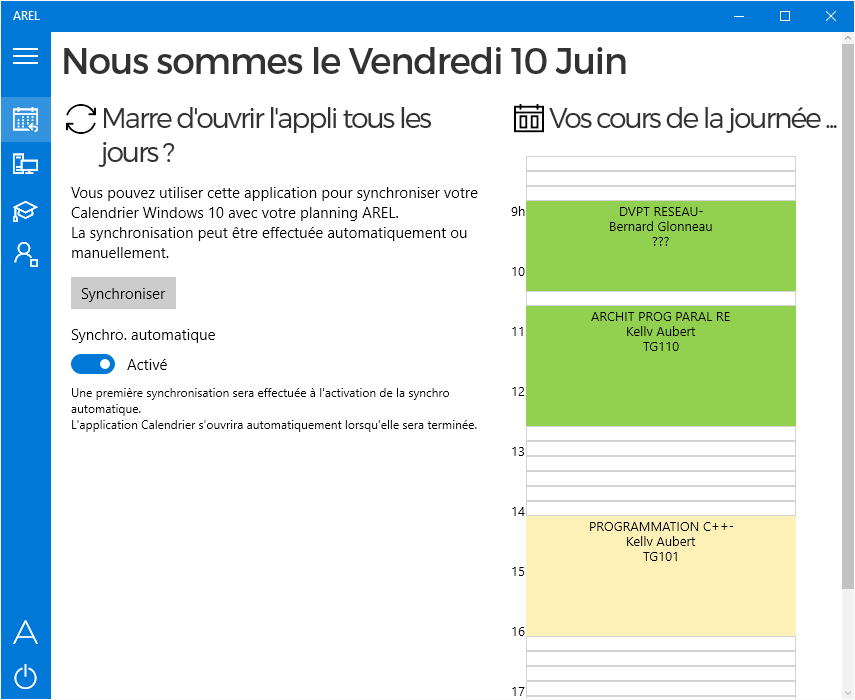
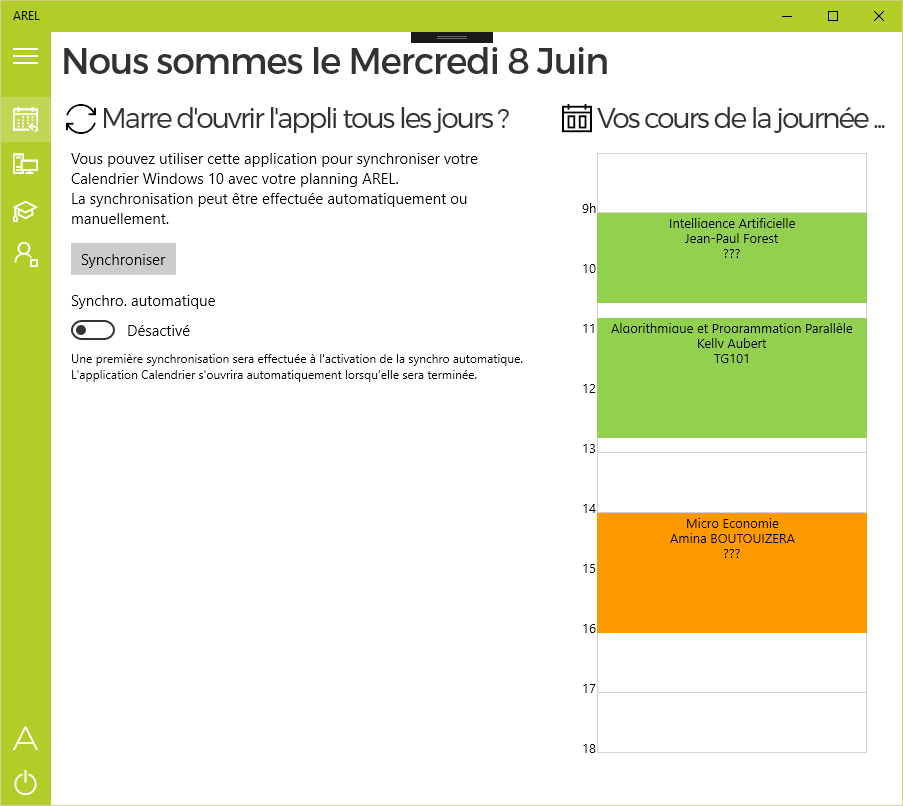
On récupère les noms complets des matières maintenant + amélioration design planning journalier

diff --git a/arelv1/Pages/Planning.xaml b/arelv1/Pages/Planning.xaml
@@ -100,7 +100,7 @@
 
             <Grid x:Name="grid"  Margin="0,0,10,10" BorderThickness="2,0" HorizontalAlignment="Center">
                 <Grid.ColumnDefinitions>
-                    <ColumnDefinition Width="15"/>
+                    <ColumnDefinition Width="30"/>
                     <ColumnDefinition x:Name="c1"/>
                 </Grid.ColumnDefinitions>
                 <Grid.RowDefinitions>

diff --git a/arelv1/Pages/Planning.xaml.cs b/arelv1/Pages/Planning.xaml.cs
@@ -258,14 +258,18 @@ namespace arelv1.Pages
                         salle = node02.InnerText;
                 }
 
+                string idRel = node.ChildNodes[2].InnerText;
                 string idProf = node.ChildNodes[3].InnerText;
                 string profName = node.ChildNodes[4].InnerText;
 
-                //Récup nom complet prof...si on a accès à l'API parce que je les sauvegarde pas dans les données de l'appli
+                //Récup nom complet prof et rel...si on a accès à l'API parce que je les sauvegarde pas dans les données de l'appli
                 if (API.isOnline())
-                { 
-                string xmlj = API.getInfo("/api/users/" + idProf);
-                profName = API.getUserFullName(xmlj);
+                {
+                    string xmlr = API.getInfo("/api/rels/" + idRel);
+                    matiere = API.getRelName(xmlr);
+
+                    string xmlj = API.getInfo("/api/users/" + idProf);
+                    profName = API.getUserFullName(xmlj);
                 }
 
                 if (prof != "" && matiere != "" && debut != "" && fin != "" && couleur != "" && salle != "")
@@ -280,7 +284,7 @@ namespace arelv1.Pages
         private void DrawPlanning()
         {
 
-            for (int j = 1; j < 41; j = j + 1)
+            for (int j = 1; j < 41; j++)
             {
                 TextBlock heure = new TextBlock();
                 heure.FontSize = 13;
@@ -292,17 +296,23 @@ namespace arelv1.Pages
                 Grid.SetColumn(heure, 0);
                 Grid.SetRow(heure, j);
 
-                for (int i = 1; i < 6; i++)
-                {
-                    StackPanel macase = new StackPanel();
+                //Remplissage de la colonne
+                StackPanel macase = new StackPanel();
 
-                    macase.BorderThickness = new Thickness(1, 1, 1, 1);
-                    macase.BorderBrush = new SolidColorBrush(Colors.LightGray);
+                if (j == (4 * jj))
+                    macase.BorderThickness = new Thickness(1,0,1,1);
+                else
+                    macase.BorderThickness = new Thickness(1, 0, 1, 0);
 
-                    grid.Children.Add(macase);
-                    Grid.SetColumn(macase, i);
-                    Grid.SetRow(macase, j);
-                }
+                if (j == 1)
+                    macase.BorderThickness = new Thickness(1, 1, 1, 0);
+
+                macase.BorderBrush = new SolidColorBrush(Colors.LightGray);
+
+                grid.Children.Add(macase);
+                Grid.SetColumn(macase, 1);
+                Grid.SetRow(macase, j);
+                
             }
 
         }

diff --git a/ArelAPI/Connector.cs b/ArelAPI/Connector.cs
@@ -154,6 +154,7 @@ namespace ArelAPI
         //On peut par la suite ouvrir l'appli calendrier Windows sur ce cal. custom.
         public async void updateWindowsCalendar(string start, string end, string calendarName)
         {
+            //string startest = "2016-06-01";
             string apiUrl = "api/planning/slots?start=" + start + "&end=" + end;
 
             string planningXML = getInfo(apiUrl);
@@ -189,6 +190,12 @@ namespace ArelAPI
                 appo.StartTime = startDate;
                 appo.Duration = new TimeSpan(0, (int)(endDate - startDate).TotalMinutes, 0);
 
+
+                //Récup non complet rel (aka matière/sujet)
+                string idRel = node.ChildNodes[2].InnerText;
+                string xmlr = getInfo("/api/rels/" + idRel);
+                string relName = getRelName(xmlr);
+
                 //Récup nom complet prof
                 string idProf = node.ChildNodes[3].InnerText;
                 string xmlj = getInfo("/api/users/" + idProf);
@@ -196,7 +203,7 @@ namespace ArelAPI
                 appo.Organizer = new Windows.ApplicationModel.Appointments.AppointmentOrganizer();
                 appo.Organizer.DisplayName = profName;
 
-                appo.Subject = node.ChildNodes[11].InnerText + profName;
+                appo.Subject = relName + " - " + profName;
 
                 //Est-ce que cet appointment exact existe déjà 
                 //On regarde les appointments sur ce créneau
@@ -211,6 +218,13 @@ namespace ArelAPI
 
             }
 
+        }
+
+        public string getRelName(string xmlr)
+        {
+            System.Xml.XmlDocument doc = new System.Xml.XmlDocument();//creation d'une instance xml
+            doc.LoadXml(xmlr);//chargement de la variable
+            return doc.ChildNodes[0].ChildNodes[0].InnerText;
         }
 
         //--------------------enregistrer dans un fichier... -----------------------------------------

diff --git a/README.md b/README.md
@@ -10,7 +10,7 @@ Une application cross-devices Windows 10 utilisant l'api d'AREL pour :
 Un fichier Resources.resw doit être ajouté dans le projet arelv1, contenant votre clé d'API(APIKey) et un login/mot de passe de test (LoginTest/PasswordTest).  
 
 
-[![Lien sur le store](https://assets.windowsphone.com/85864462-9c82-451e-9355-a3d5f874397a/English_get-it-from-MS_InvariantCulture_Default.png =250x)](https://www.microsoft.com/store/apps/9nblggh4wlhz)
+<a href="https://www.microsoft.com/store/apps/9nblggh4wlhz"><img width=250 src="https://assets.windowsphone.com/f2f77ec7-9ba9-4850-9ebe-77e366d08adc/English_Get_it_Win_10_InvariantCulture_Default.png" alt="Get it on Windows 10" /></a>
 
 ![emploi du temps](screen01.png)  
 ![notes](screen02.png)
